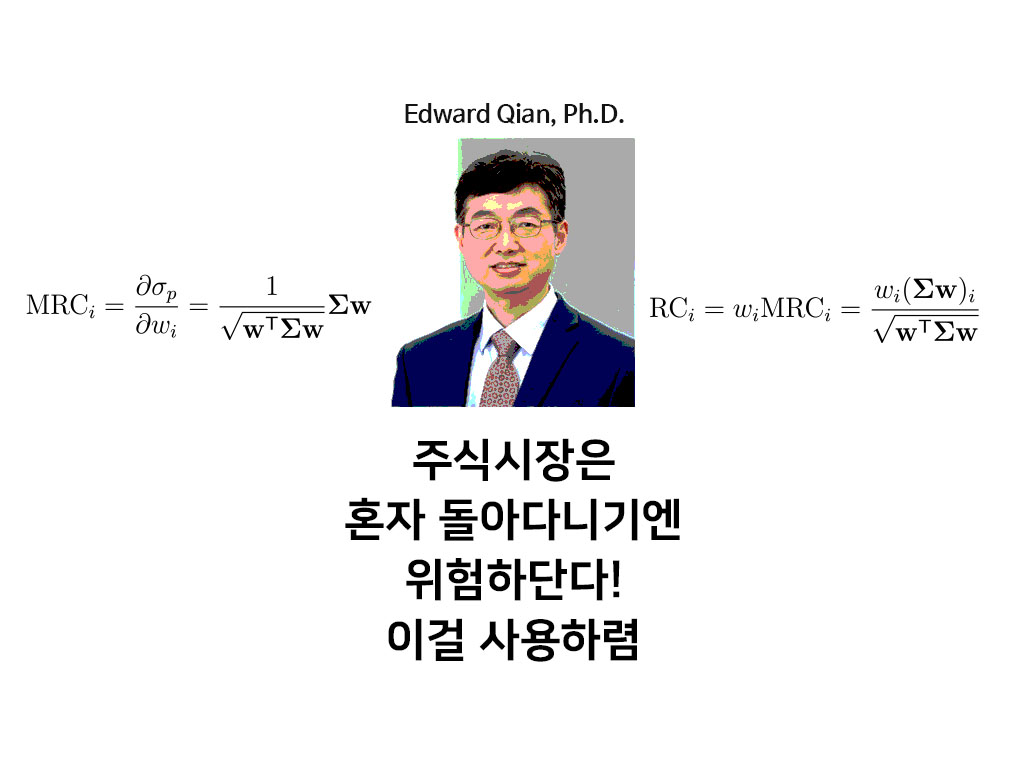
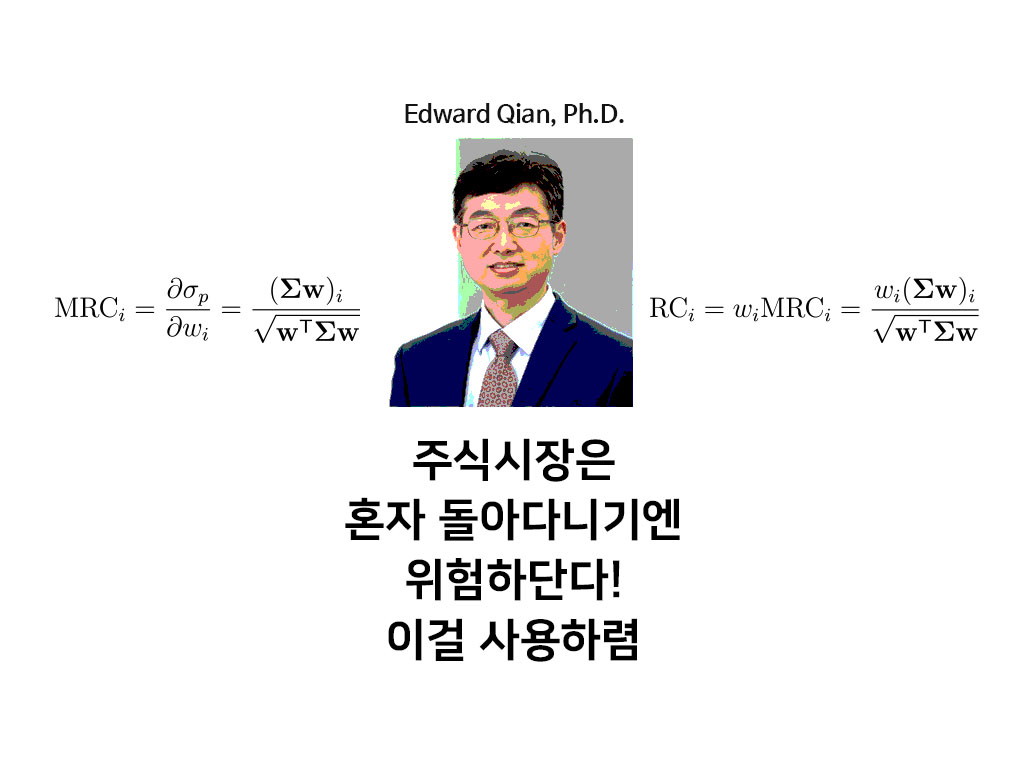
Update post

Changed region(s): [[0.4062, 0.1875, 0.625, 0.5312], [0.0312, 0.3438, 0.375, 0.4688], [0.375, 0.4375, 0.4062, 0.5312]]

diff --git a/_posts/2023-12-19-risk-parity.md b/_posts/2023-12-19-risk-parity.md
@@ -47,7 +47,7 @@ $$w_i=\frac{\frac{1}{\sigma_i}}{\sum_k{\frac{1}{\sigma_k}}}\quad\cdots(1)$$
 
 수학적으로는 아래와 같이 **미분**을 통해 정의됩니다.
 
-$$\text{MRC}_i=\frac{\partial \sigma_p}{\partial w_i}=\frac{1}{\sqrt{\mathbf{w}^\mathsf{T}\mathbf{\Sigma w}}}\mathbf{\Sigma w}$$
+$$\text{MRC}_i=\frac{\partial \sigma_p}{\partial w_i}=\frac{(\mathbf{\Sigma w})_i}{\sqrt{\mathbf{w}^\mathsf{T}\mathbf{\Sigma w}}}$$
 
 > **포트폴리오의 총 위험** $$\sigma_p$$는 아래와 같이 정의됩니다.
 >
